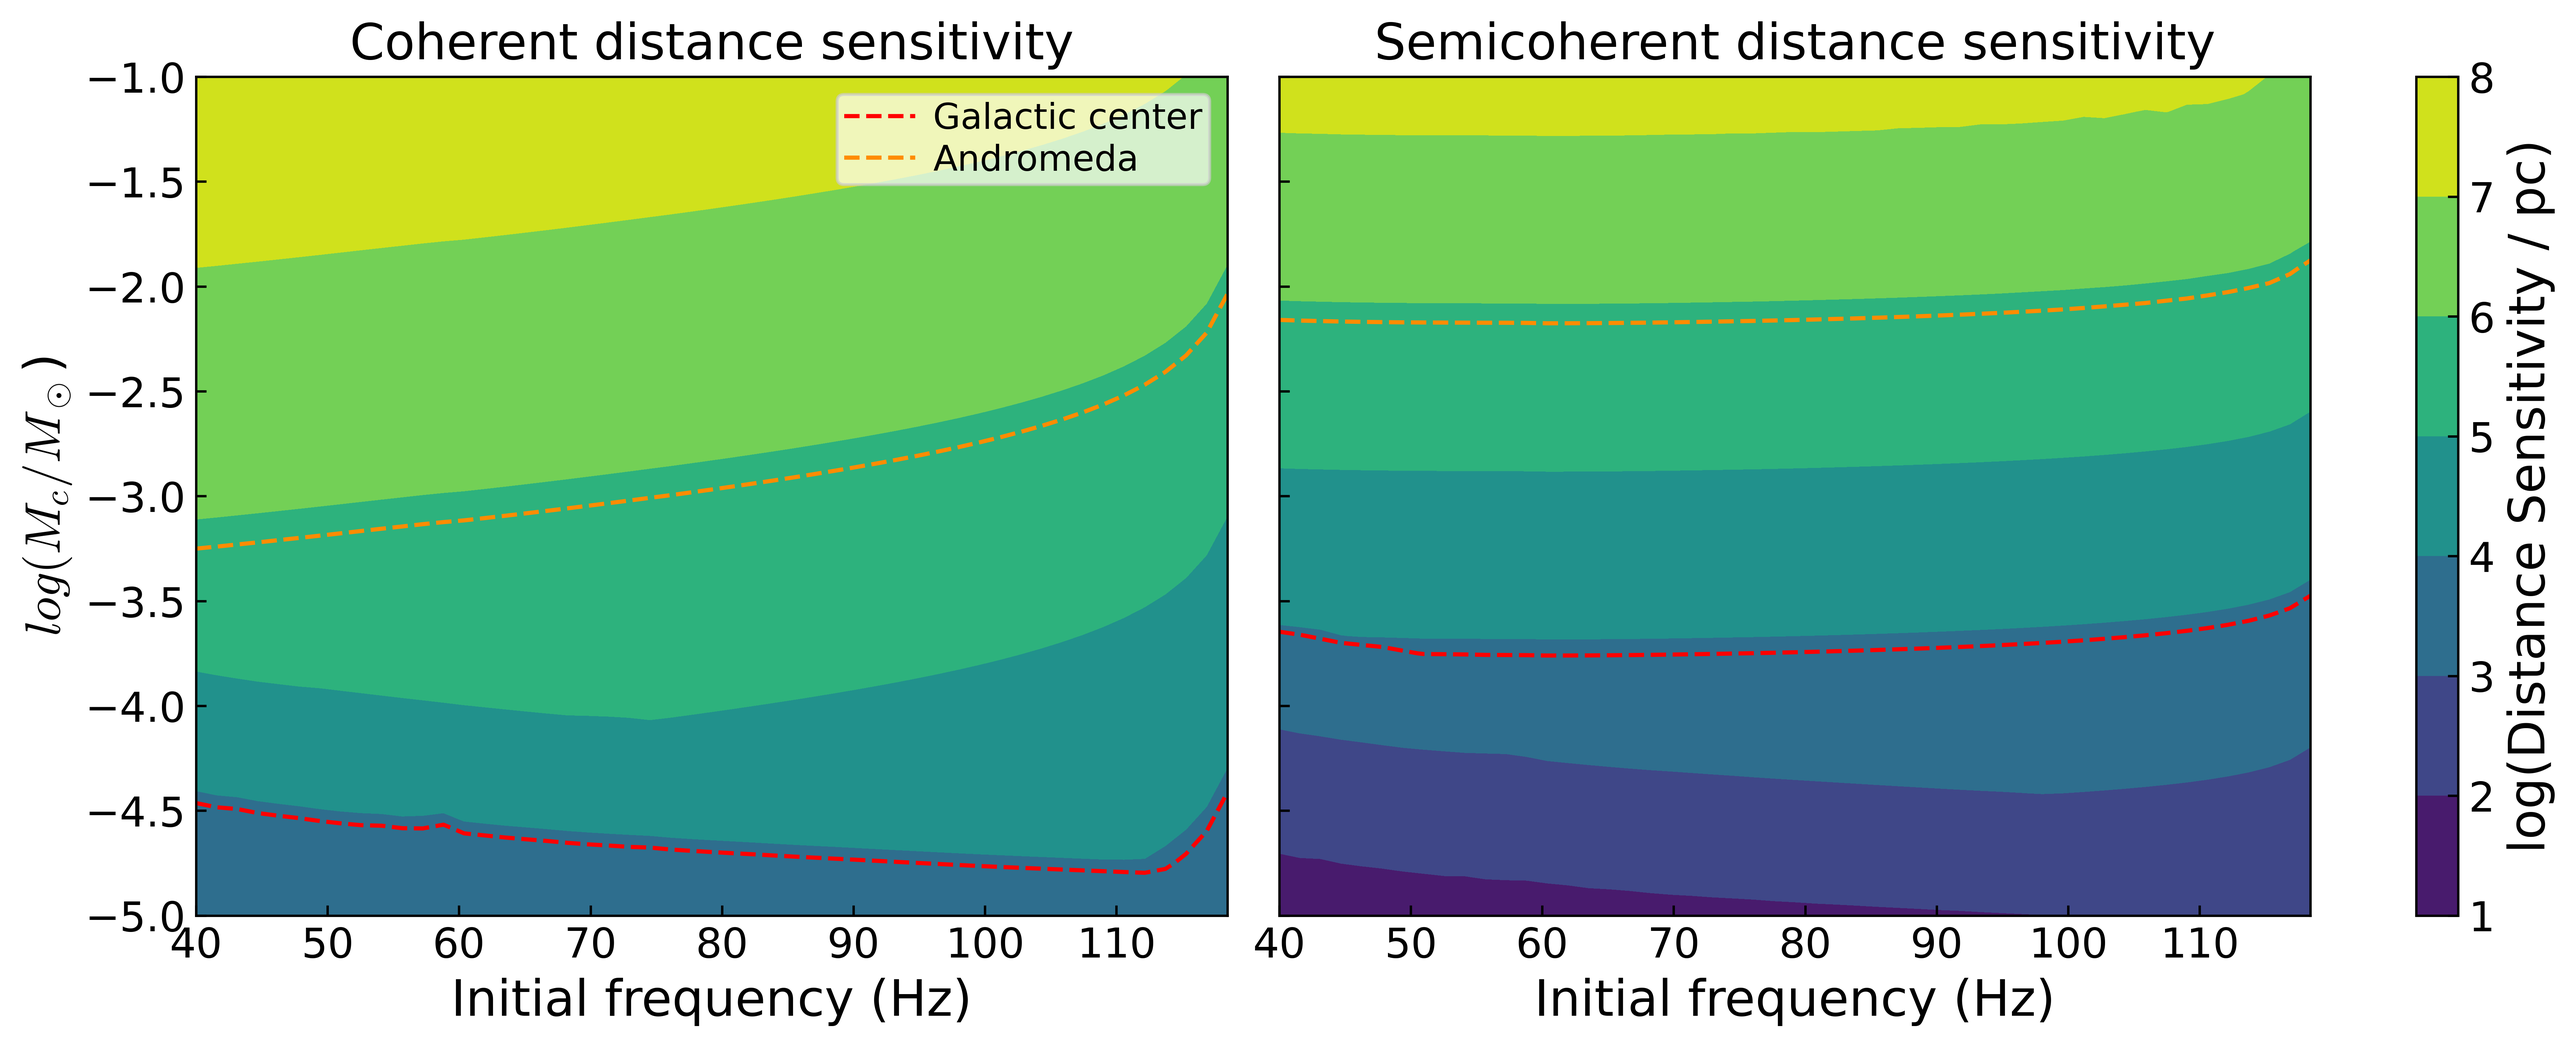
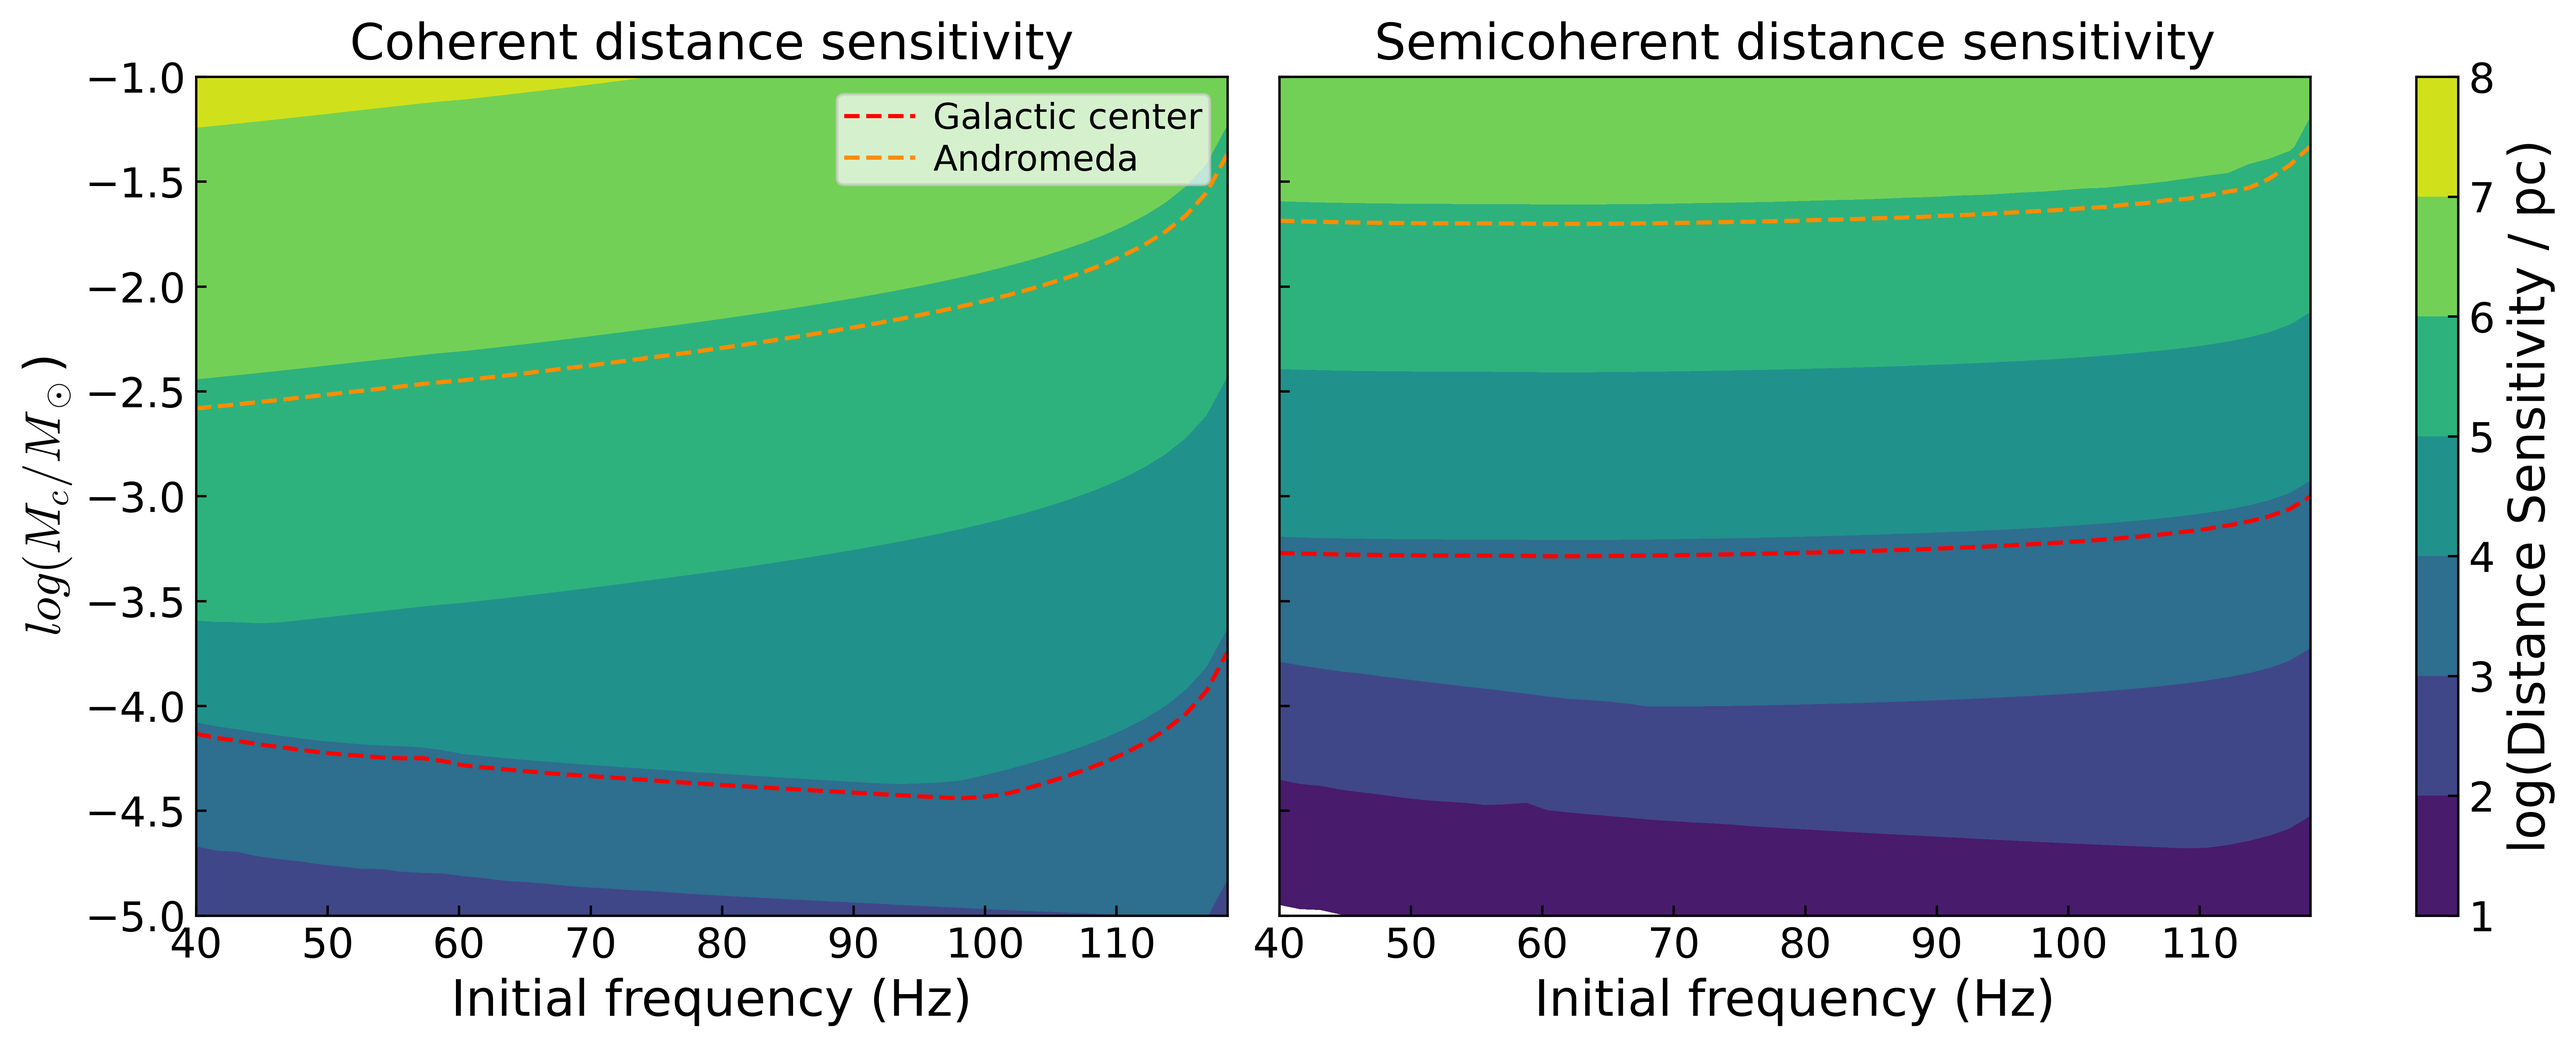
WIP

diff --git a/Resampling/paper_plots/distance_sensitivity/semicoherent_sensitivity.py b/Resampling/paper_plots/distance_sensitivity/semicoherent_sensitivity.py
@@ -87,7 +87,7 @@ def semicoherent_distance_sensitivity(
     integration,
     duration,
     chunk_duration=CHUNK_DURATION,
-    lambda_thresh=47,
+    lambda_thresh=47.0,
     mismatch_bank=0.05,
     mismatch_coh=0.1,
 ):
@@ -253,28 +253,3 @@ def main():
 
 if __name__ == "__main__":
     main()
-
-
-# # %%
-# def h0_calc(d, f, M):
-#     m_corr = M*2e30
-#     temp0 = 4/d
-#     temp1 = (G*m_corr/(c**2))**(5/3)
-#     temp2 = (pi*f/c)**(2/3)
-#     return temp0 * temp1 * temp2
-
-
-# # %%
-# def d_calc(h0, f, M):
-#     m_corr = M*2e30
-#     temp0 = 4/h0
-#     temp1 = (G*m_corr/(c**2))**(5/3)
-#     temp2 = (pi*f/c)**(2/3)
-#     return temp0 * temp1 * temp2
-
-
-# # %%
-# temp_dist = sens_grid[0,0] * 3e16
-# h0_calc(temp_dist, fspace[0], Mspace[0])
-
-# %%

diff --git a/Resampling/paper_plots/distance_sensitivity/maximum_sensitivity_35PN.py b/Resampling/paper_plots/distance_sensitivity/maximum_sensitivity_35PN.py
@@ -32,7 +32,7 @@ PI = np.pi
 SOLAR_MASS_KG = lal.MSUN_SI
 PARSEC_M = lal.PC_SI
 MAX_OBS_TIME = 3e7
-LAMBDA_THRESHOLD = 47
+LAMBDA_THRESHOLD = 47.0
 SKY_AVERAGED_DISTANCE_PREFACTOR = 0.00742709 # integrated over inclination, polarization, ra, dec, Fourier bin error
 FOURIER_BIN_POWER_AVERAGE = 2.4308 / PI
 GALACTIC_CENTER_PC = 8000
@@ -171,7 +171,7 @@ def taylorf2_frequency_grid(f_min, f_max):
 # ## Sensitivity
 
 # %%
-def distance_sensitivity(f0, Mc, integration, lambda_thresh=47):
+def distance_sensitivity(f0, Mc, integration, lambda_thresh=47.0):
     # lambda_thresh is the spectral-amplitude threshold for the target FAP
     # and detection probability.
     # The 3.5PN TaylorF2 evolution changes the integration endpoint and the

diff --git a/Resampling/paper_plots/distance_sensitivity/injection/semicoherent_injection_nonoise.py b/Resampling/paper_plots/distance_sensitivity/injection/semicoherent_injection_nonoise.py
@@ -71,6 +71,12 @@ DEFAULTS = {
 }
 
 
+def default_arg_type(name, default):
+    if name == "lambda_threshold":
+        return float
+    return type(default)
+
+
 def parse_args():
     parser = argparse.ArgumentParser(
         description=(
@@ -81,7 +87,7 @@ def parse_args():
     for name, default in DEFAULTS.items():
         parser.add_argument(
             f"--{name.replace('_', '-')}",
-            type=type(default),
+            type=default_arg_type(name, default),
             default=default,
         )
     parser.add_argument("--asd", type=Path, default=ASD_PATH)

diff --git a/Resampling/paper_plots/distance_sensitivity/injection/semicoherent_injection_colored_noise.py b/Resampling/paper_plots/distance_sensitivity/injection/semicoherent_injection_colored_noise.py
@@ -21,7 +21,7 @@ def parse_args():
     for name, default in base.DEFAULTS.items():
         parser.add_argument(
             f"--{name.replace('_', '-')}",
-            type=type(default),
+            type=base.default_arg_type(name, default),
             default=default,
         )
     parser.add_argument("--asd", type=Path, default=base.ASD_PATH)

diff --git a/Resampling/paper_plots/distance_sensitivity/injection/significance_vs_distance.py b/Resampling/paper_plots/distance_sensitivity/injection/significance_vs_distance.py
@@ -43,7 +43,7 @@ def parse_args():
     for name, default in injection.DEFAULTS.items():
         parser.add_argument(
             f"--{name.replace('_', '-')}",
-            type=type(default),
+            type=injection.default_arg_type(name, default),
             default=default,
         )
     parser.add_argument(
